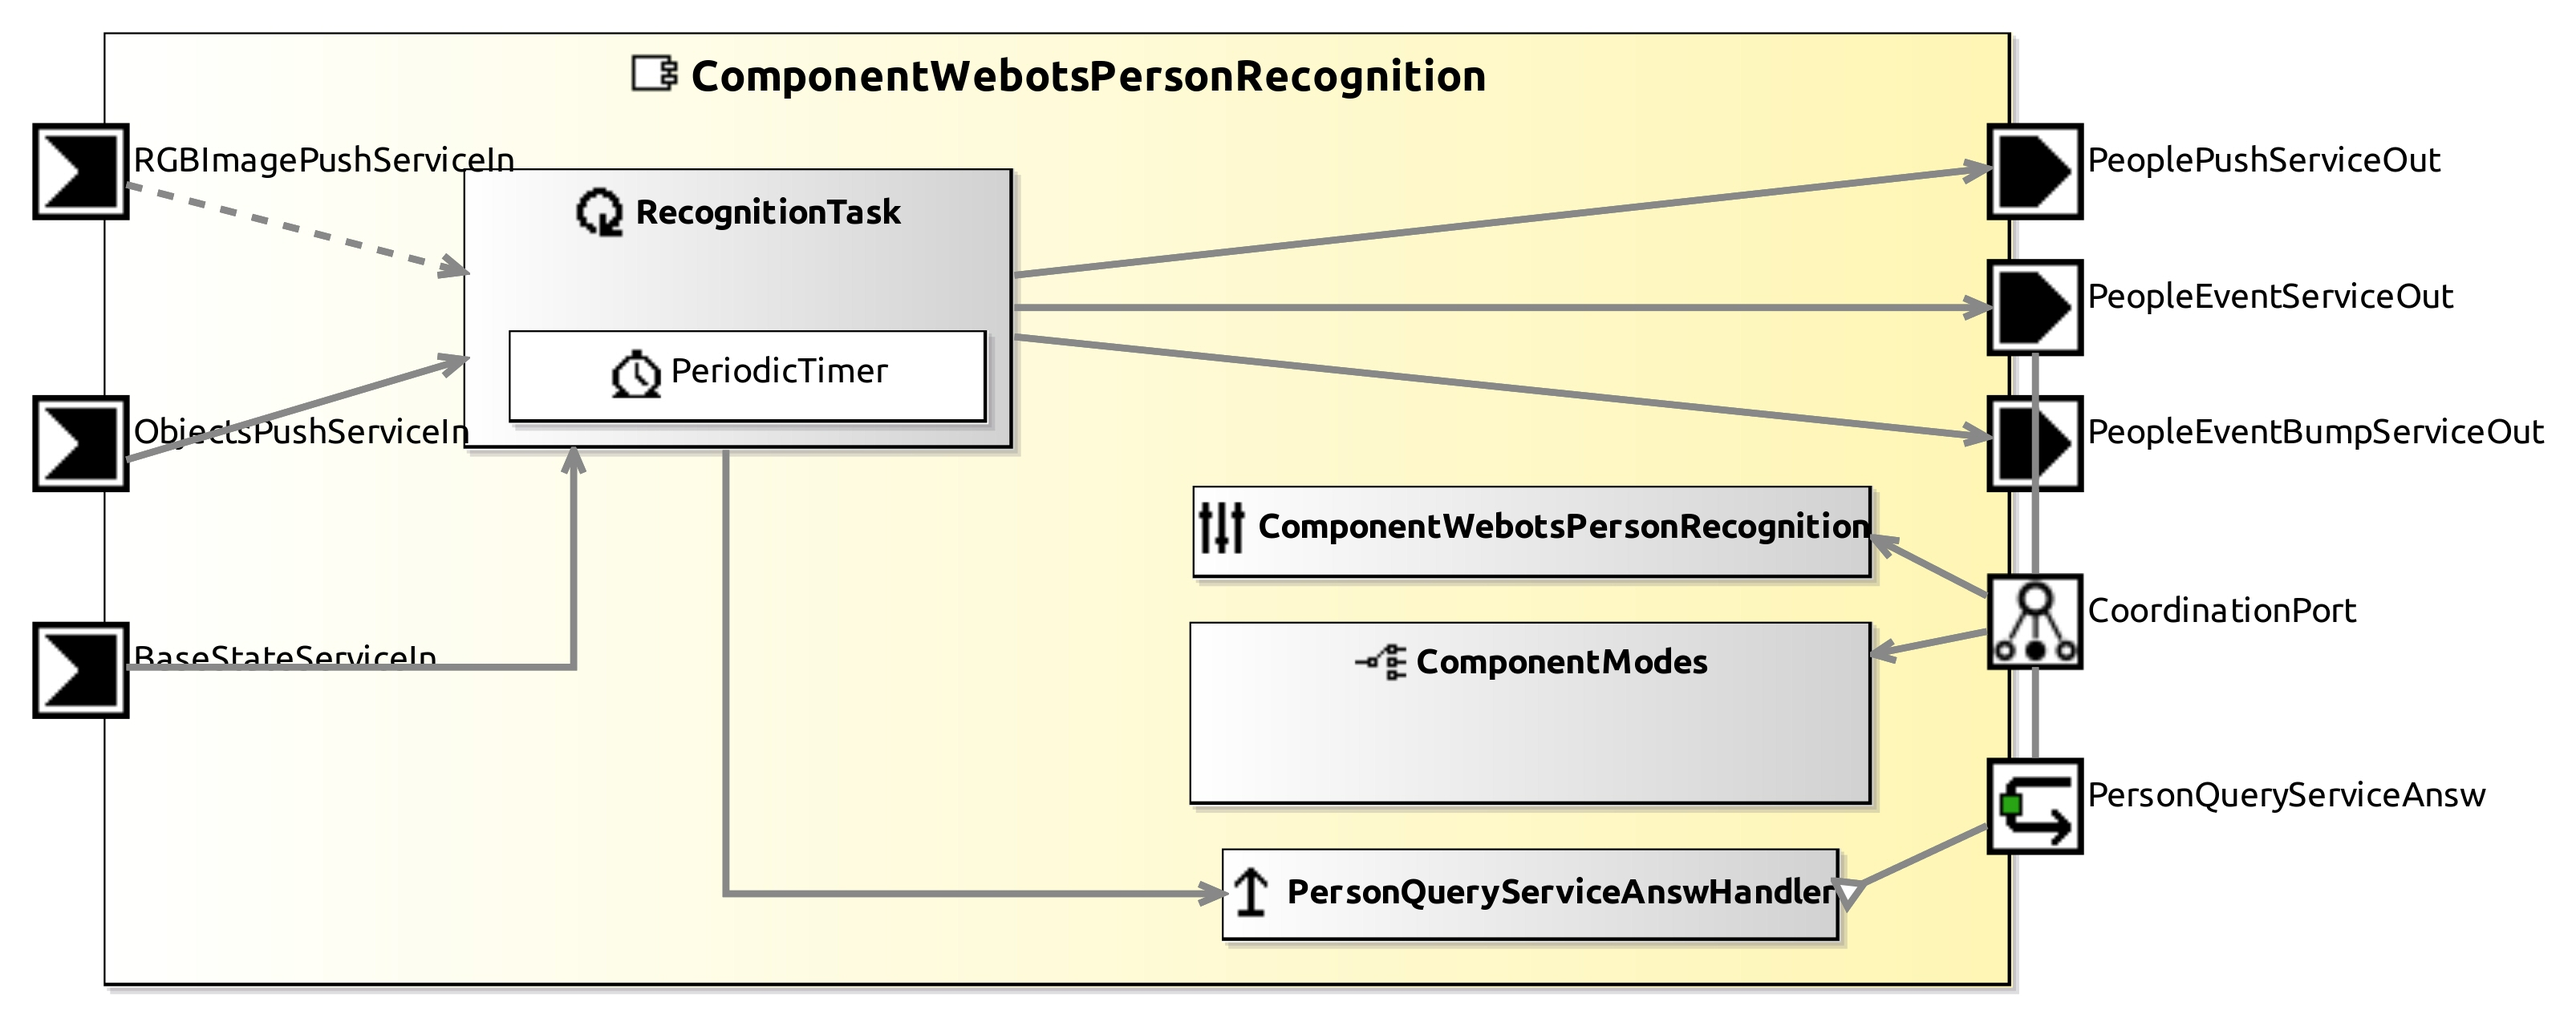
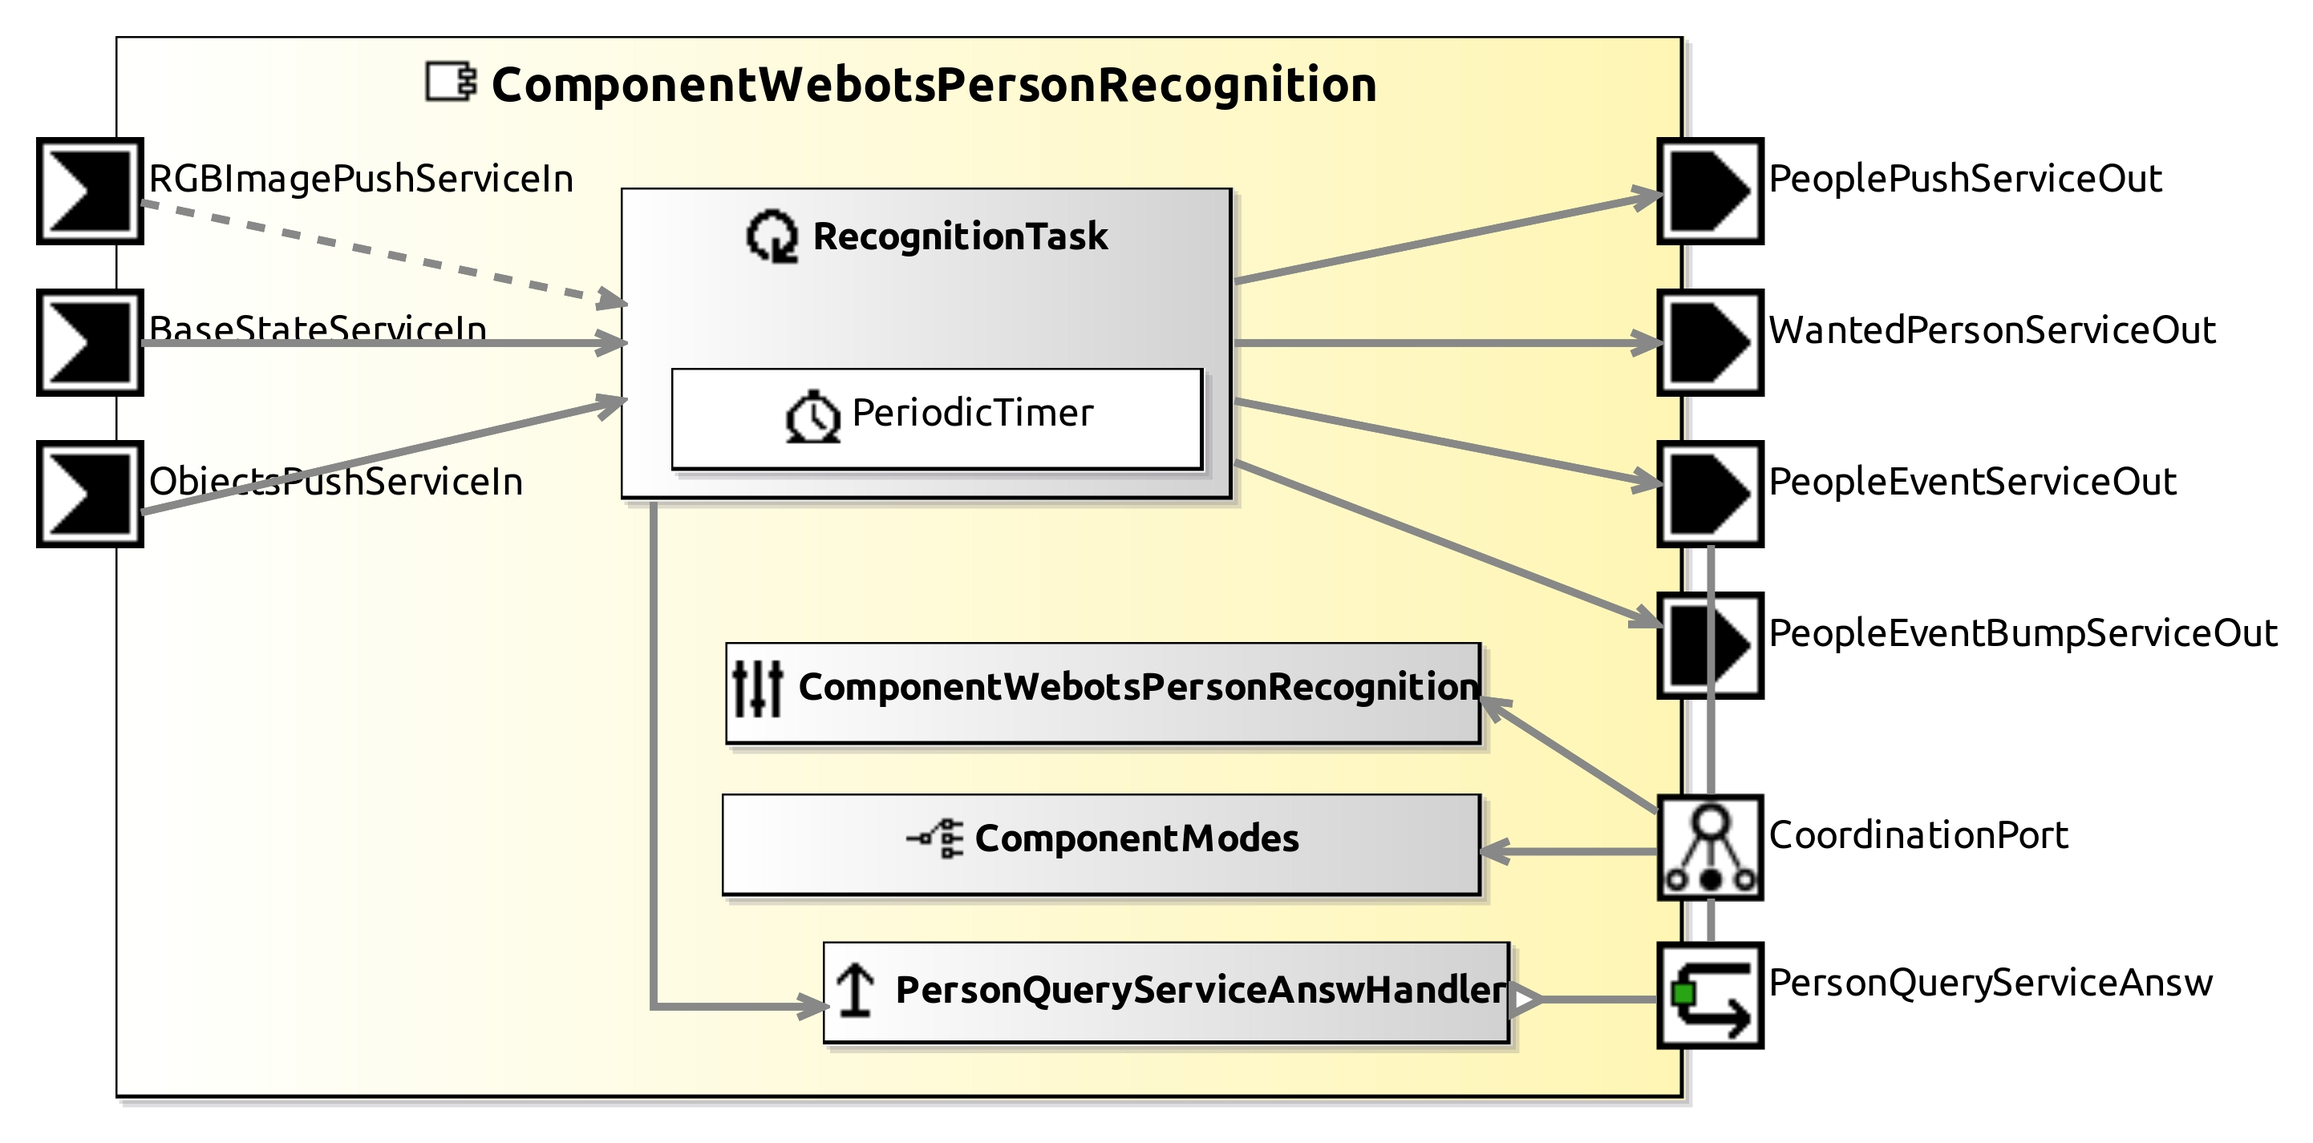
add wanted person event

diff --git a/ComponentWebotsPersonRecognition/smartsoft/src/RecognitionTask.cc b/ComponentWebotsPersonRecognition/smartsoft/src/RecognitionTask.cc
@@ -29,8 +29,6 @@ RecognitionTask::~RecognitionTask()
 	std::cout << "destructor RecognitionTask\n";
 }
 
-
-
 int RecognitionTask::on_entry()
 {
 	if (!COMP)
@@ -43,6 +41,8 @@ int RecognitionTask::on_entry()
     getPerson_bump_name();
   people_bump_threshold_ = COMP->getParameters().getRecognition_properties().
     getPeople_bump_threshold();
+	wanted_person_name_ = COMP->getParameters().getRecognition_properties().
+    getWanted_person_name();
 
 	return 0;
 }
@@ -217,9 +217,18 @@ void RecognitionTask::comparePeopleJson()
 	}
 	
 	CommObjectRecognitionObjects::CommObjectRecognitionEventState state;
+  CommObjectRecognitionObjects::CommObjectRecognitionEventState wanted_person_state;
+  wanted_person_state.setState(CommObjectRecognitionObjects::
+        ObjectRecognitionState::INVISIBLE);
 	std::vector<unsigned> ids;
-	for (size_t i = 0; i < people.size(); ++i)
-		ids.push_back(people[i].getId());
+	for (size_t i = 0; i < people.size(); ++i) {
+    if (people[i].getName() == wanted_person_name_) {
+      wanted_person_state.setState(CommObjectRecognitionObjects::
+        ObjectRecognitionState::VISIBLE);
+      wanted_person_state.setObject_id({(unsigned int) people[i].getId()});
+    }
+    ids.push_back(people[i].getId());
+  }
 	state.setObject_id(ids);
 	
 	if (people.size() > 0)
@@ -228,6 +237,7 @@ void RecognitionTask::comparePeopleJson()
 		state.setState(CommObjectRecognitionObjects::ObjectRecognitionState::INVISIBLE);
 	
   peopleEventServiceOutPut(state);
+  wantedPersonServiceOutPut(wanted_person_state);
   
   CommObjectRecognitionObjects::CommPeople people_out;
   people_out.setIs_valid(true);

diff --git a/ComponentWebotsPersonRecognition/smartsoft/src/WantedPersonServiceOutEventTestHandler.cc b/ComponentWebotsPersonRecognition/smartsoft/src/WantedPersonServiceOutEventTestHandler.cc
@@ -1,0 +1,31 @@
+//--------------------------------------------------------------------------
+// Code generated by the SmartSoft MDSD Toolchain
+// The SmartSoft Toolchain has been developed by:
+//  
+// Service Robotics Research Center
+// University of Applied Sciences Ulm
+// Prittwitzstr. 10
+// 89075 Ulm (Germany)
+//
+// Information about the SmartSoft MDSD Toolchain is available at:
+// www.servicerobotik-ulm.de
+//
+// This file is generated once. Modify this file to your needs. 
+// If you want the toolchain to re-generate this file, please 
+// delete it before running the code generator.
+//--------------------------------------------------------------------------
+#include "WantedPersonServiceOutEventTestHandler.hh"
+
+bool WantedPersonServiceOutEventTestHandler::testEvent(
+	CommBasicObjects::CommVoid &p,
+	CommObjectRecognitionObjects::CommObjectRecognitionEventResult &r,
+	const CommObjectRecognitionObjects::CommObjectRecognitionEventState &s
+) throw() {
+	r.setState(s.getState());
+	r.setObject_id(s.getObject_idCopy());
+	// fire all events (without filtering) in the default implementation
+	// implement your own (specific) event-filtering code using the event-parameter as input
+	// true means that the current event will be fired to the according client
+	// false means that the current event is ignored (it will not be communicated to the according client)
+	return true;
+}
